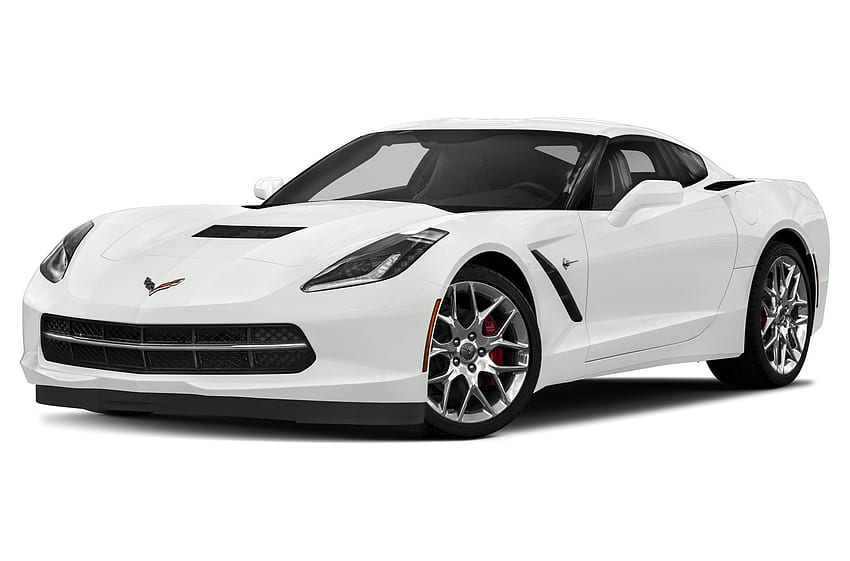
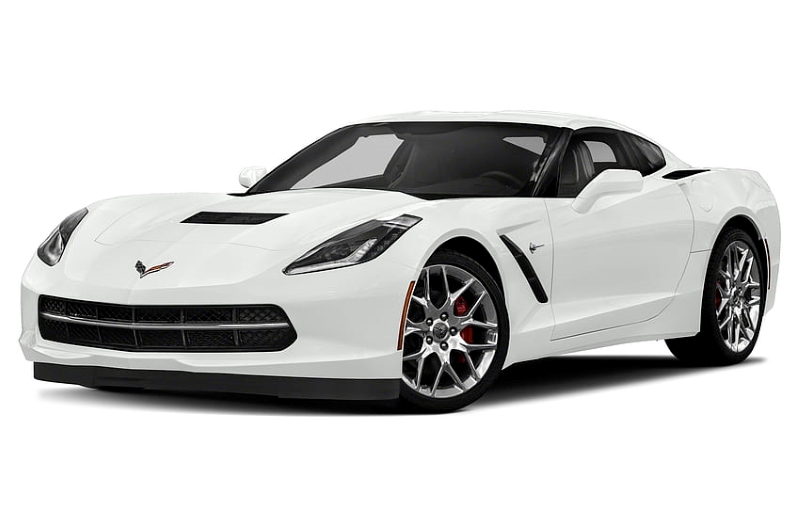
update 1.1
redimension de imagenes

diff --git a/bootstrap/vehiculos.html b/bootstrap/vehiculos.html
@@ -5,7 +5,10 @@
   <meta name="viewport" content="width=device-width, initial-scale=1.0">
   <title>R4 Automóviles</title>
   <link rel="stylesheet" href="css/normalize.css">
+  <link rel="stylesheet" href="css/bootstrap.css">
   <link rel="stylesheet" href="css/bootstrap.min.css">
+  <link rel="stylesheet" href="css/bootstrap-utilities.css">
+  <link rel="stylesheet" href="https://cdnjs.cloudflare.com/ajax/libs/font-awesome/4.7.0/css/font-awesome.min.css">
 </head>
 <body>
     <header class="bg-primary">
@@ -48,31 +51,167 @@
 
         <div class="col-md-4 order-1">
             <h2 class="title_tipo_vehiculo text-center">Sedan</h2>
-            <a href="sedan.html"><img src="images/models/sedan/volkswagen_passat/passat_main.jpeg" class="img-fluid" alt=""></a>
+            <a href="sedan.html">
+                <img src="images/models/sedan/volkswagen_passat/passat_main.jpeg" class="img-fluid max-width-100" alt="sedan">
+            </a>
         </div>
         <div class="col-md-4 order-2">
             <h2 class="title_tipo_vehiculo text-center">Hatch</h2>
-            <a href="hatch-back.html"><img src="images/models/hatch-back/polo/polo_main.jpeg" class="img-fluid"  alt="4444"></a>
+            <a href="hatch-back.html">
+                <img src="images/models/hatch-back/polo/polo_main.jpeg" class="img-fluid max-width-100" alt="Hatch">
+            </a>
         </div>
         <div class="col-md-4 order-3">
             <h2 class="title_tipo_vehiculo text-center">Suv</h2>
-            <a href="suv.html"><img src="images/models/suv/renault_duster/duster_2023_main.jpg" class="img-fluid" alt="rrr">
-            </a></div>
+            <a href="suv.html">
+                <img src="images/models/suv/renault_duster/duster_2023_main.jpg" class="img-fluid max-width-100" alt="suv">
+            </a>
+        </div>
         <div class="col-md-4 order-4">
             <h2 class="title_tipo_vehiculo text-center">Piuck Up</h2>
-            <a href="pick-up.html"><img src="images/models/pick-up/ranger/ranger_raptor_2023_main.png" class="img-fluid" alt="asdsa"></a>
+            <a href="pick-up.html">
+                <img src="images/models/pick-up/ranger/ranger_raptor_2023_main.png" class="img-fluid max-width-100" alt="pick-up">
+            </a>
         </div>
         <div class="col-md-4 order-5">
             <h2 class="title_tipo_vehiculo text-center">Utilitarios</h2>
-            <a href="utilitarios.html"><img src="images/models/utilitarios/renault_kangoo/kangoo_main.webp" class="img-fluid" alt="hyhy"></a>
+            <a href="utilitarios.html">
+                <img src="images/models/utilitarios/renault_kangoo/kangoo_main.webp" class="img-fluid max-width-100" alt="utilitarios">
+            </a>
         </div>
         <div class="col-md-4 order-5">
             <h2 class="title_tipo_vehiculo text-center">Deportivos</h2>
-            <a href="utilitarios.html"><img src="images/models/Deportivos/corvette_c7/c7_main.jpg" class="img-fluid" alt="hyhy"></a>
+            <a href="utilitarios.html">
+                <img src="images/models/Deportivos/corvette_c7/c7_main.jpg" class="img-fluid max-width-100" alt="deportivos">
+            </a>
         </div>
 
     </div>
   </main>
-  <script src="js/bootstrap.min.js"></script>
+    <!-- Remove the container if you want to extend the Footer to full width. -->
+    
+
+        <!-- Footer -->
+        <footer
+                class="text-center text-lg-start text-white"
+                style="background-color: #1c2331"
+                >
+        <!-- Section: Social media -->
+        <section
+                class="d-flex justify-content-between p-4"
+                style="background-color: #6351ce"
+                >
+            <!-- Left -->
+            <div class="justify-content-center">
+                <span>Mantente conectado con nosotros mediante nuestras redes sociales:</span>
+            </div>
+            <!-- Left -->
+    
+            <!-- Right -->
+            <div>
+                <a href="" class="text-white me-4">
+                    <i class="fa fa-facebook-f"></i>
+                </a>
+                <a href="" class="text-white me-4">
+                    <i class="fa fa-twitter"></i>
+                </a>
+                <a href="" class="text-white me-4">
+                    <i class="fa fa-google"></i>
+                </a>
+                <a href="" class="text-white me-4">
+                    <i class="fa fa-instagram"></i>
+                </a>
+                <a href="" class="text-white me-4">
+                    <i class="fa fa-linkedin"></i>
+                </a>
+            
+            </div>
+            <!-- Right -->
+        </section>
+        <!-- Section: Social media -->
+    
+        <!-- Section: Links  -->
+        <section class="">
+            <div class="container text-center text-md-start mt-5">
+            <!-- Grid row -->
+            <div class="row mt-3">
+                <!-- Grid column -->
+                <div class="col-md-3 col-lg-4 col-xl-3 mx-auto mb-4">
+                <!-- Content -->
+                <h6 class="text-uppercase fw-bold">R4 Automoviles</h6>
+                <hr
+                    class="mb-4 mt-0 d-inline-block mx-auto"
+                    style="width: 60px; background-color: #7c4dff; height: 2px"
+                    />
+                <p>
+                    Con casi una decada en el rubro, R4 Automoviles 
+                    busca ofrecer un servicio de excelencia 
+                    en ventas de Automóviles. Lorem ipsum
+                    dolor sit amet, consectetur adipisicing elit.
+                </p>
+                </div>
+                <!-- Grid column -->
+    
+                <!-- Grid column -->
+                <div class="col-md-3 col-lg-2 col-xl-2 mx-auto mb-4">
+                <!-- Links -->
+                <h6 class="text-uppercase fw-bold">Redes Sociales</h6>
+                <hr
+                    class="mb-4 mt-0 d-inline-block mx-auto"
+                    style="width: 60px; background-color: #7c4dff; height: 2px"
+                    />
+                <p>
+                    <a href="#!" class="text-white">Facebook</a>
+                </p>
+                <p>
+                    <a href="#!" class="text-white">Instagram</a>
+                </p>
+                <p>
+                    <a href="#!" class="text-white">Twitter</a>
+                </p>
+                <p>
+                    <a href="#!" class="text-white">Linkedin</a>
+                </p>
+                </div>
+                <!-- Grid column -->
+    
+                <!-- Grid column -->
+                <div class="col-md-4 col-lg-3 col-xl-3 mx-auto mb-md-0 mb-4">
+                <!-- Links -->
+                <h6 class="text-uppercase fw-bold">Contacto</h6>
+                <hr
+                    class="mb-4 mt-0 d-inline-block mx-auto"
+                    style="width: 60px; background-color: #7c4dff; height: 2px"
+                    />
+                <p><a href="https://goo.gl/maps/8ZpVFQujfmPyLD6p7" class="text-white me-4">
+                    <i class="fa fa-home mr-3"></i></a>Constitución 716, X5800 Río Cuarto, Córdoba</p>
+                <p><i class="fa fa-envelope mr-3"></i> info@R4automoviles.com</p>
+                <p><i class="fa fa-phone mr-3"></i> +54 0358 4643036</p>
+                <p><i class="fa fa-print mr-3"></i> +54 0358 4643037</p>
+                </div>
+                <!-- Grid column -->
+            </div>
+            <!-- Grid row -->
+            </div>
+        </section>
+        <!-- Section: Links  -->
+    
+        <!-- Copyright -->
+        <div
+            class="text-center p-3"
+            style="background-color: rgba(0, 0, 0, 0.2)"
+            >
+            © Derechos de autor 2023. Todos los derechos reservados a R4 automoviles:
+            <a class="text-white" href="index.html"
+            >r4automoviles.com</a
+            >
+        </div>
+        <!-- Copyright -->
+        </footer>
+        <!-- Footer -->
+    
+    
+    <!-- End of .container -->
+    <script src="js/bootstrap.min.js"></script>
 </body>
 </html>
